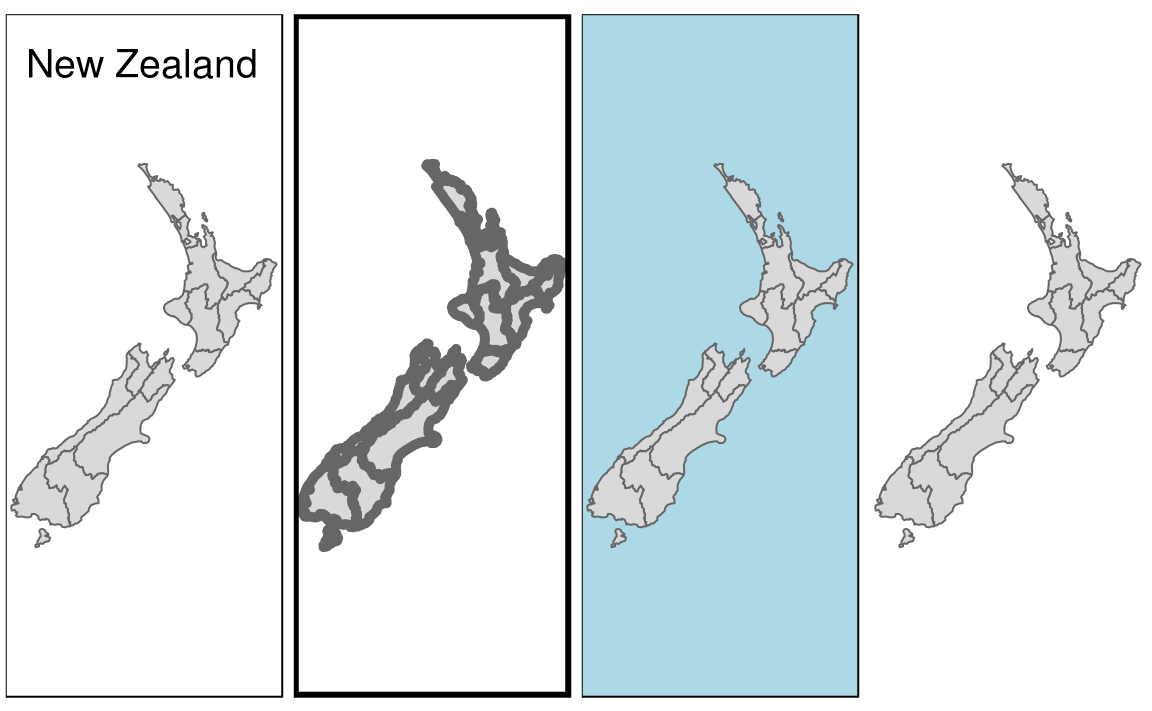
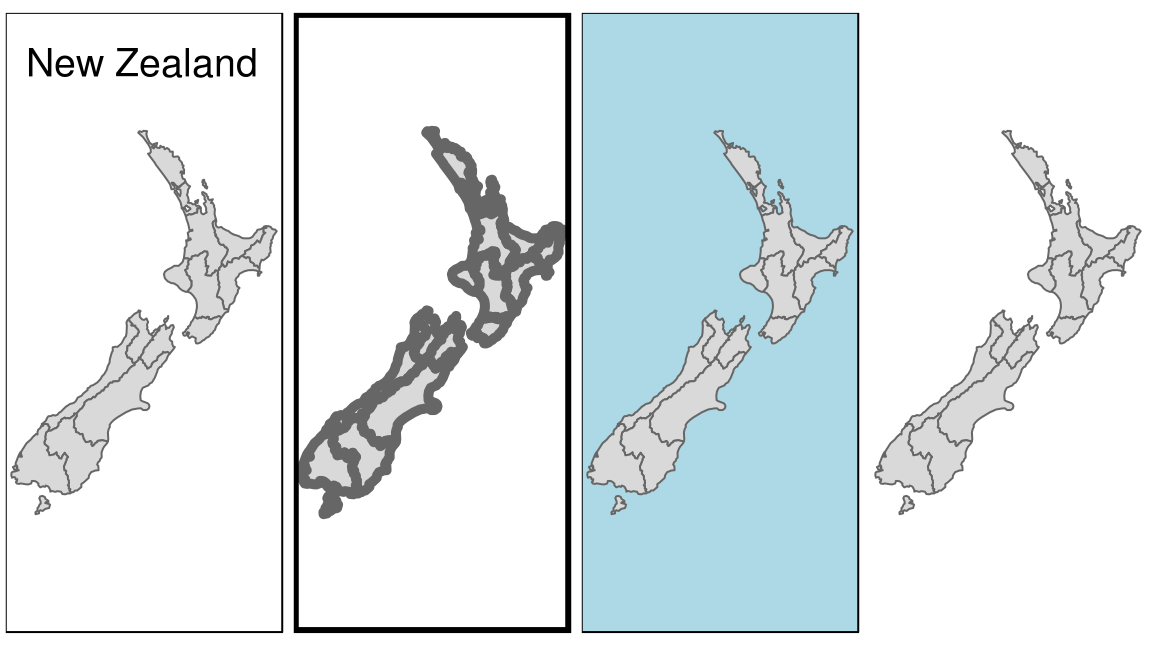
Updating book (4109)

diff --git a/adv-map.html b/adv-map.html
@@ -579,7 +579,7 @@ Unlike the base R code below (which generates the left panel in Figure <a href="
 Thus, one would achieve the desired result as follows (plotted in the right-hand panel of Figure <a href="adv-map.html#fig:tmcol">8.4</a>):</p>
 <div class="sourceCode" id="cb269"><pre class="sourceCode r"><code class="sourceCode r"><a class="sourceLine" id="cb269-1" data-line-number="1"><span class="kw">tm_shape</span>(nz) <span class="op">+</span><span class="st"> </span><span class="kw">tm_fill</span>(<span class="dt">col =</span> <span class="st">&quot;Land_area&quot;</span>)</a></code></pre></div>
 <div class="figure" style="text-align: center"><span id="fig:tmcol"></span>
-<img src="figures/tmcol-1.png" alt="Comparison of base (left) and tmap (right) handling of a numeric color field." width="50%" /><img src="figures/tmcol-2.png" alt="Comparison of base (left) and tmap (right) handling of a numeric color field." width="50%" />
+<img src="figures/tmcol-1.png" alt="Comparison of base (left) and tmap (right) handling of a numeric color field." width="45%" /><img src="figures/tmcol-2.png" alt="Comparison of base (left) and tmap (right) handling of a numeric color field." width="45%" />
 <p class="caption">
 Figure 8.4: Comparison of base (left) and tmap (right) handling of a numeric color field.
 </p>
@@ -651,7 +651,7 @@ Sequential palettes can be single (<code>Blues</code> go from light to dark blue
 Their main purpose is to visualize the difference from an important reference point, e.g. a certain temperature, the median household income or the mean probability for a drought event.
 The reference point’s value can be adjusted in <strong>tmap</strong> using the <code>midpoint</code> argument.</p>
 <div class="figure" style="text-align: center"><span id="fig:colpal"></span>
-<img src="figures/colpal-1.png" alt="Examples of categorical, sequential and diverging palettes." width="40%" />
+<img src="figures/colpal-1.png" alt="Examples of categorical, sequential and diverging palettes." width="50%" />
 <p class="caption">
 Figure 8.7: Examples of categorical, sequential and diverging palettes.
 </p>

diff --git a/08-mapping.md b/08-mapping.md
@@ -234,7 +234,7 @@ tm_shape(nz) + tm_fill(col = "Land_area")
 ```
 
 <div class="figure" style="text-align: center">
-<img src="figures/tmcol-1.png" alt="Comparison of base (left) and tmap (right) handling of a numeric color field." width="50%" /><img src="figures/tmcol-2.png" alt="Comparison of base (left) and tmap (right) handling of a numeric color field." width="50%" />
+<img src="figures/tmcol-1.png" alt="Comparison of base (left) and tmap (right) handling of a numeric color field." width="45%" /><img src="figures/tmcol-2.png" alt="Comparison of base (left) and tmap (right) handling of a numeric color field." width="45%" />
 <p class="caption">(\#fig:tmcol)Comparison of base (left) and tmap (right) handling of a numeric color field.</p>
 </div>
 
@@ -318,7 +318,7 @@ Their main purpose is to visualize the difference from an important reference po
 The reference point's value can be adjusted in **tmap** using the `midpoint` argument.
 
 <div class="figure" style="text-align: center">
-<img src="figures/colpal-1.png" alt="Examples of categorical, sequential and diverging palettes." width="40%" />
+<img src="figures/colpal-1.png" alt="Examples of categorical, sequential and diverging palettes." width="50%" />
 <p class="caption">(\#fig:colpal)Examples of categorical, sequential and diverging palettes.</p>
 </div>
 
